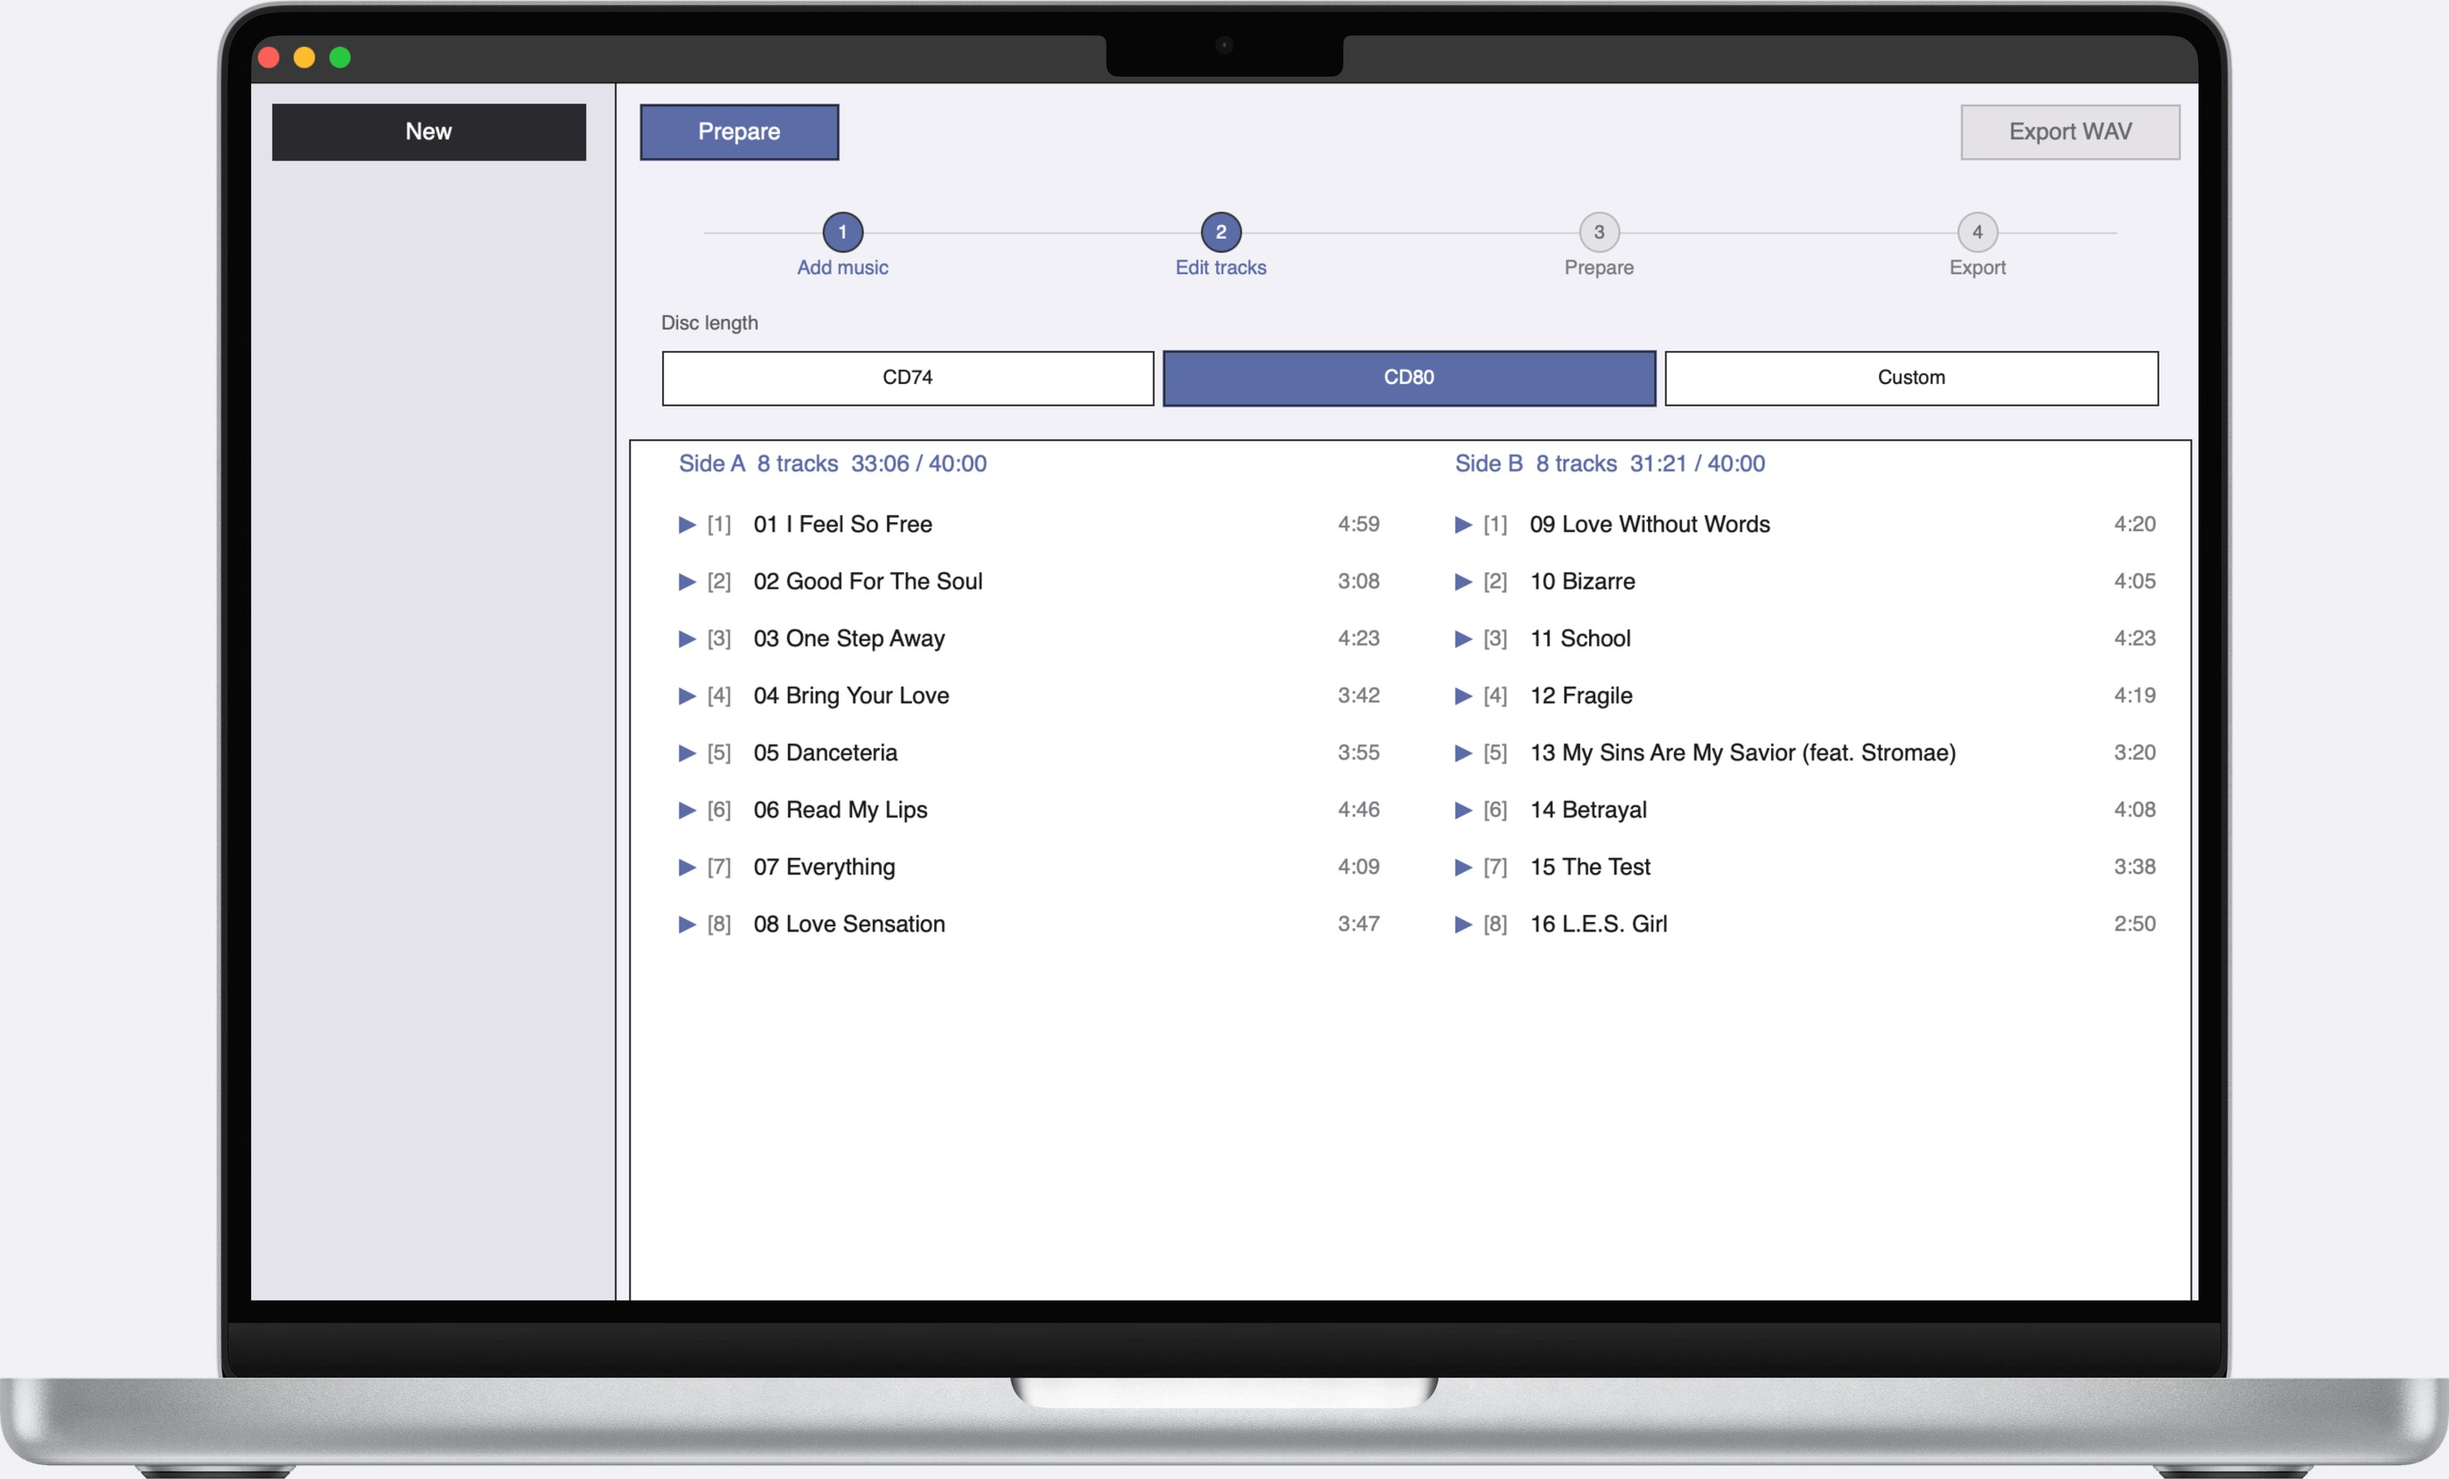
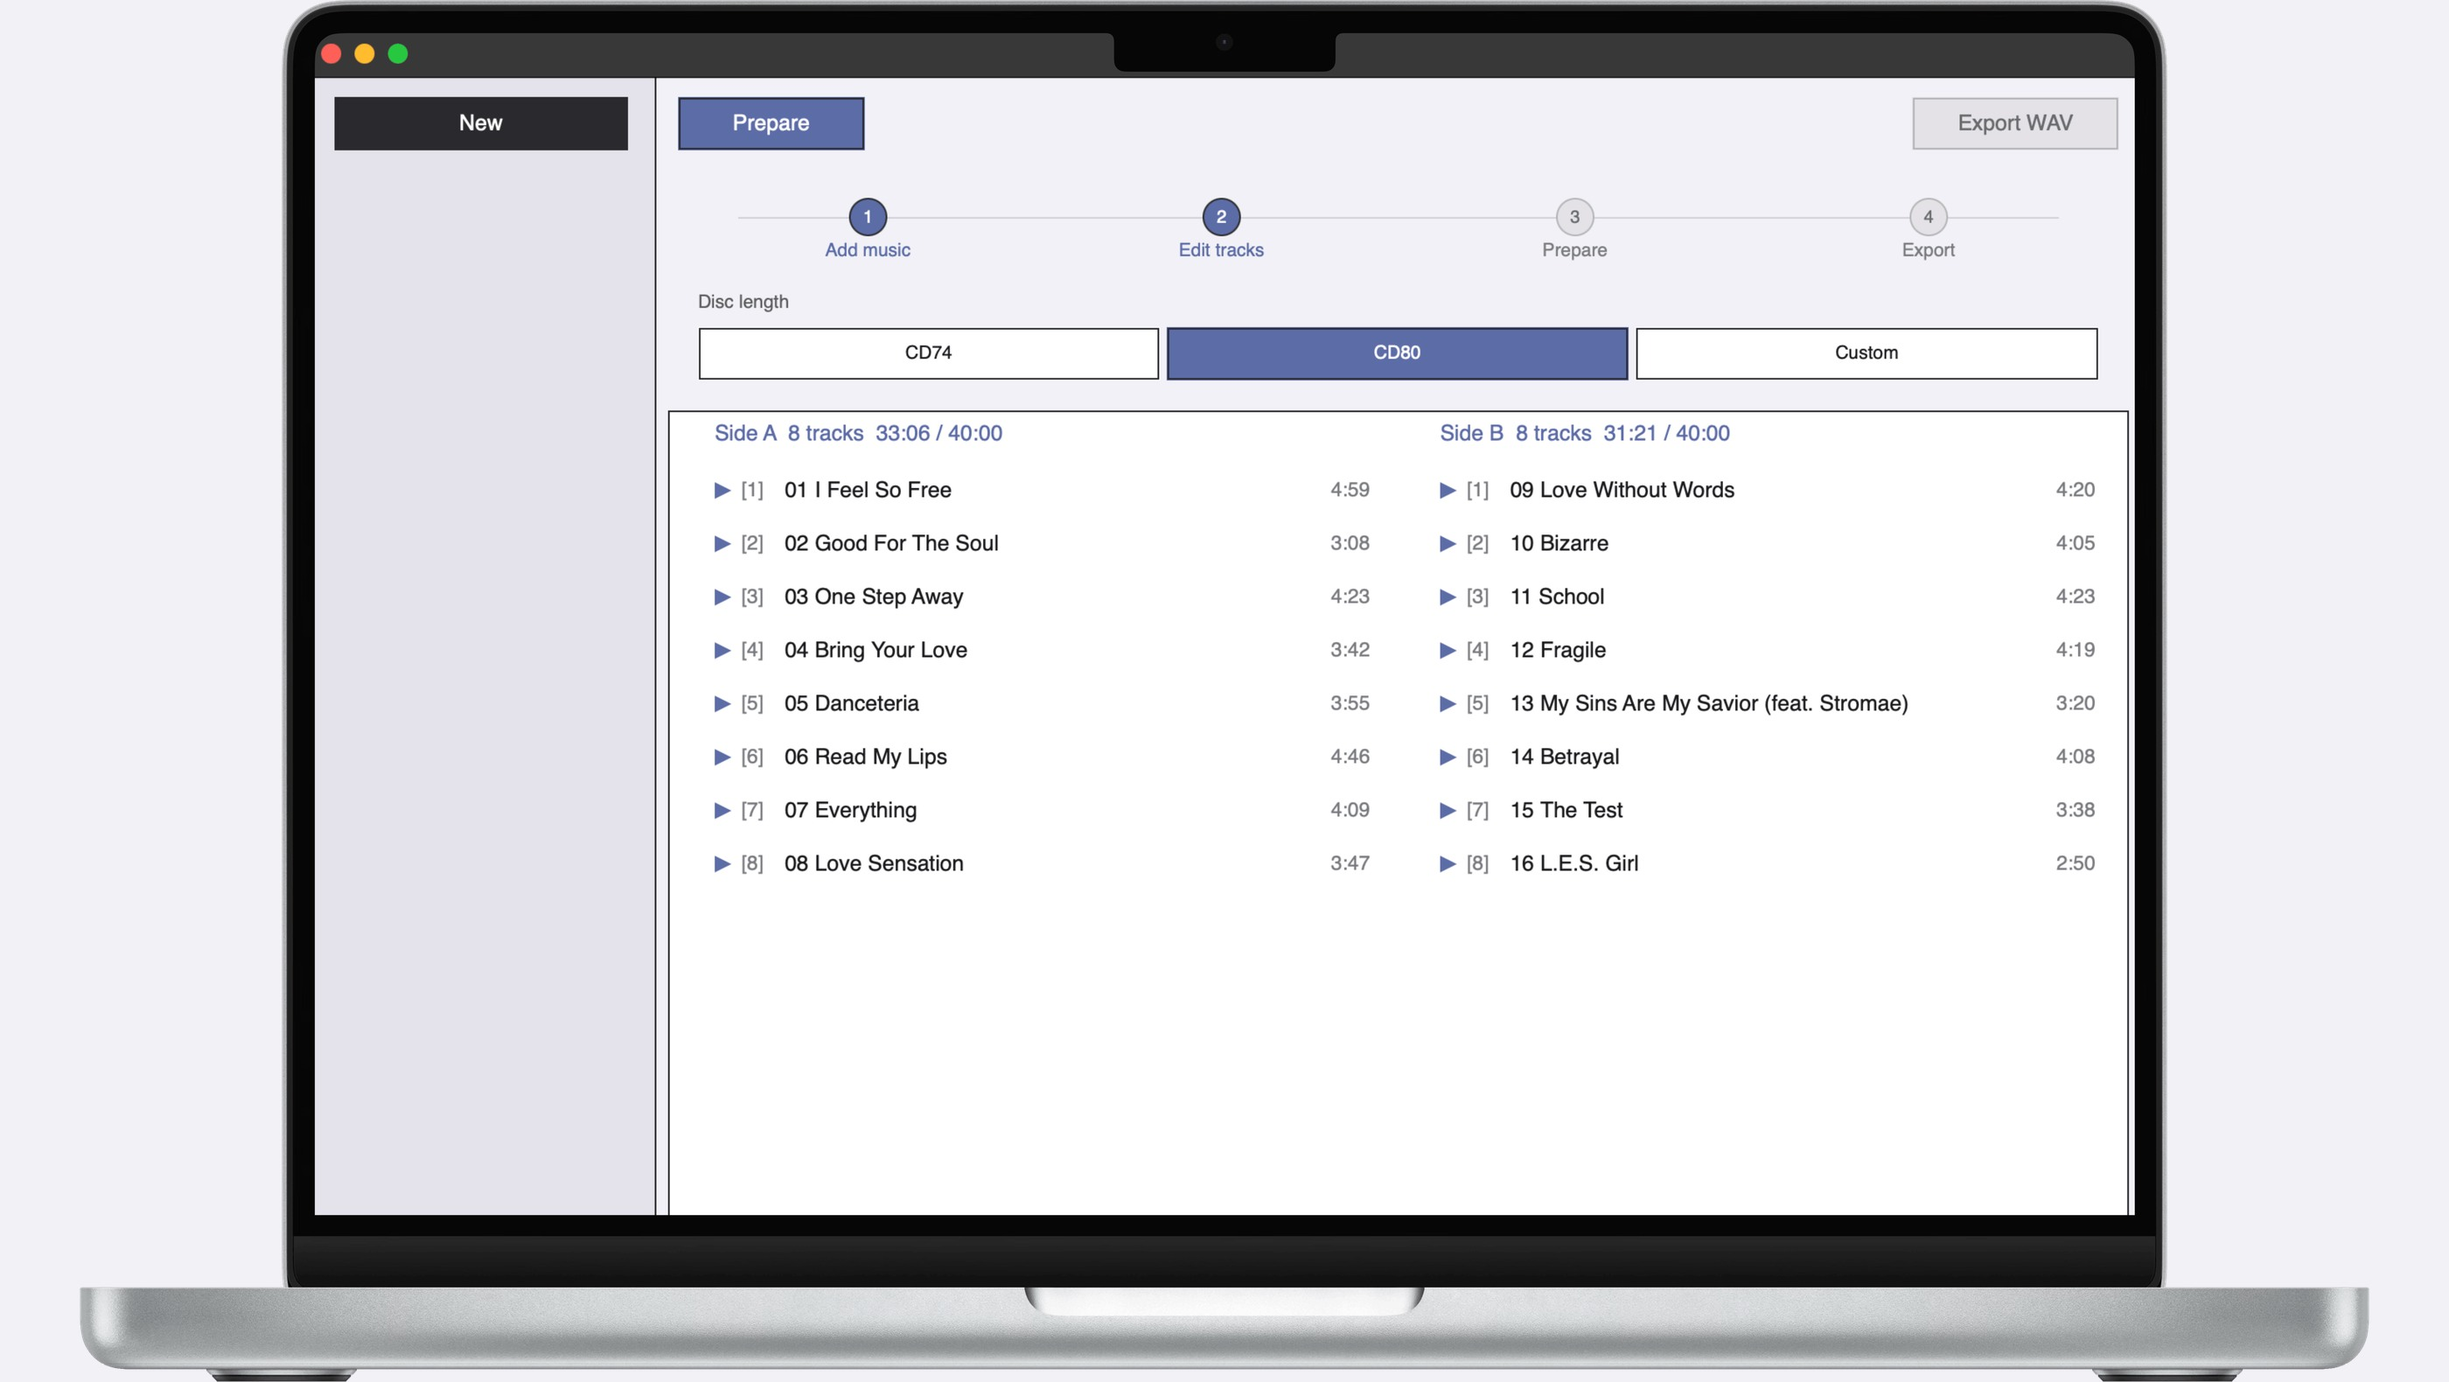
Enlarge hero mockup 20% and add side margins to stop edge clipping.

diff --git a/docs/index.html b/docs/index.html
@@ -39,7 +39,7 @@
         </div>
         <p class="hero-meta" data-i18n="hero.meta">MacOS, Windows &amp; Linux · No DAW required</p>
         <figure class="hero-shot">
-          <img src="assets/mockup.png" alt="CD Burner on MacBook — Side A and Side B track editor with disc length presets" width="2800" height="1691" loading="eager">
+          <img src="assets/mockup.png" alt="CD Burner on MacBook — Side A and Side B track editor with disc length presets" width="2800" height="1580" loading="eager">
         </figure>
       </div>
     </section>

diff --git a/docs/style.css b/docs/style.css
@@ -179,6 +179,7 @@ code {
 .hero {
   padding: 72px 0 56px;
   text-align: center;
+  overflow: visible;
 }
 
 .hero-icon {
@@ -227,13 +228,17 @@ code {
 .hero-shot {
   margin: 40px auto 0;
   max-width: 920px;
+  overflow: visible;
+  padding-inline: 12px;
 }
 
 .hero-shot img {
-  width: 60%;
-  max-width: 528px;
+  display: block;
+  width: 72%;
+  max-width: 634px;
   height: auto;
   margin-inline: auto;
+  object-fit: contain;
 }
 
 /* Sections */
